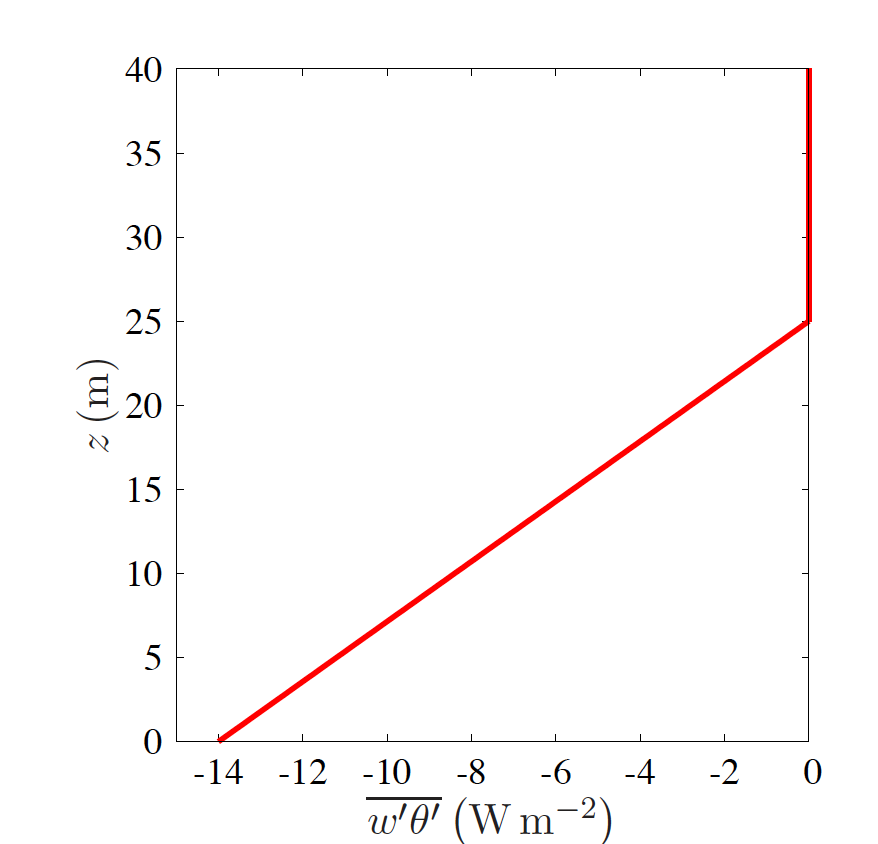
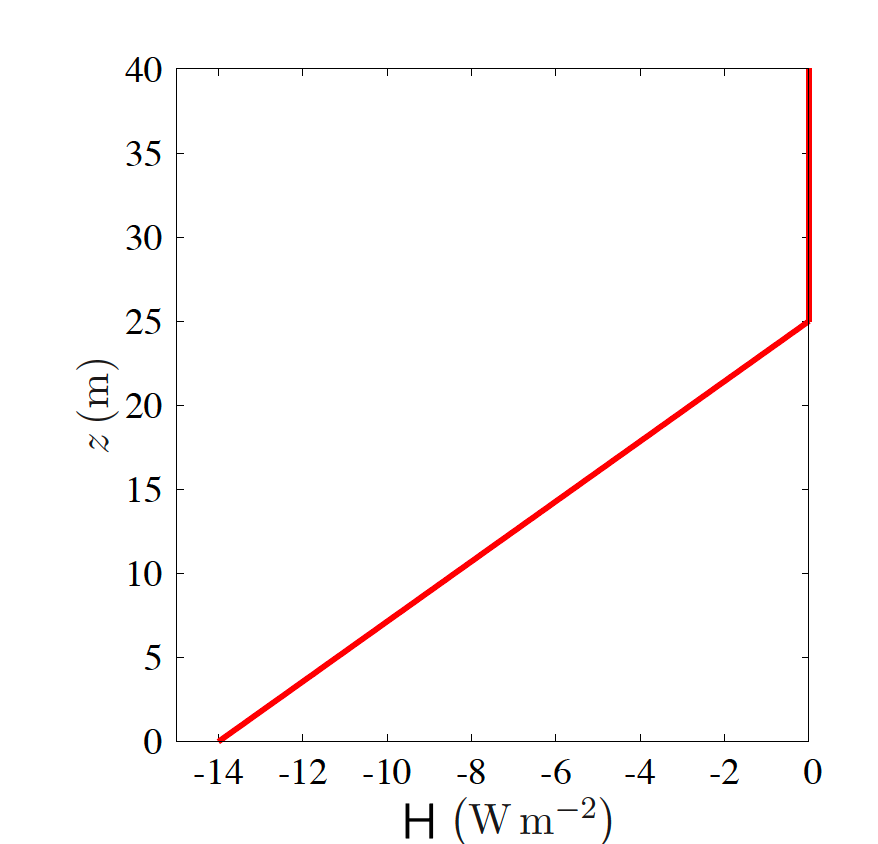
Improve readability and fix units of the exercises of week 5

diff --git a/exercises/week5.md b/exercises/week5.md
@@ -3,6 +3,11 @@ $\def\pafg#1#2{\dfrac{\partial #1}{\partial #2}}$
 $\def\afg#1#2{\dfrac{{\rm d} #1}{{\rm d} #2}}$
 $\def\gemafg#1#2{\pafg{\overline{#1}}{#2}}$
 
+```{hint}
+:class: tip
+Remember that $H\ =\ \rho\ c_p\ \overline{w'\theta'}$. If no values are given, use $\rho\ c_p\ = 1231\ J\ K^{-1}\ m^{-3}$.  
+```
+
 ##
 The following figure shows the raw observation of the wind speed.
 
@@ -218,9 +223,10 @@ and the wind speed. Discuss your criteria and the estimation of the height.
 <details>
   <summary>Answer</summary>
 
-Using the potential temperature gradient, there are 2 criteria.
-1. $\pafg{\theta}{z}=0$: This only occurs at the top of the profile
-2. A small $\pafg{\theta}{z}$: This is valid at $h=1000\rm\,m$ and above.
+Using the potential temperature gradient, there are multiple criteria possible, resulting in different heights.
+1. In the residual layer $\pafg{\theta}{z}=0$: This only occurs at the top of the profile
+2. In the residual layer $\pafg{\theta}{z}$ is small: This is valid at $h=1000\rm\,m$ and above.
+3. Above the residual layer, there is an inversion where $\pafg{\theta}{z}$ is large: this occurs around 750m.
 
 For the wind speed, the location of the low level jet is used. 
 The maximum wind speed in this jet is at a height of 250 m.
@@ -439,12 +445,12 @@ T_{\rm Top} = \theta_{\rm Top} = 293.98\rm\,K
 $$(for:73temp3)
 
 $\rho\,c_p=1231\rm\,\frac{W\,m^{-2}}{K\,m\,s^{-1}}$, 
-$\sigma_{\rm SB}=5.67\times 10^{-8}\rm\,W\,m^{-2}\,K^{-4}$ and 
+$\sigma_{\rm SB}=5.67\cdot 10^{-8}\rm\,W\,m^{-2}\,K^{-4}$ and 
 $\epsilon_{\rm IR} = 0.78$, 
-so $\frac{\epsilon_{\rm IR}\, \sigma_{\rm SB}}{\rho\,c_p} = 3.59\times 10^{-11} \rm K^{-3}\,m\,s^{-1}$.
+so $\frac{\epsilon_{\rm IR}\, \sigma_{\rm SB}}{\rho\,c_p} = 3.59\cdot 10^{-11} \rm K^{-3}\,m\,s^{-1}$.
 
 $$
-\gemafg{\theta}{t} = 2.2\times 10^{-5} \rm\,K\,s^{-1} = 0.079\,K\,hr^{-1}
+\gemafg{\theta}{t} = 2.2\cdot 10^{-5} \rm\,K\,s^{-1} = 0.079\,K\,hr^{-1}
 $$
 
 </details>
@@ -480,7 +486,7 @@ $$
 The constants are equal to exercise b, so
 
 $$
-\gemafg{\theta}{t} = -1.14\times 10^{-3} \rm\,K\,s^{-1} = -4.1\,K\,hr^{-1}
+\gemafg{\theta}{t} = -1.14\cdot 10^{-3} \rm\,K\,s^{-1} = -4.1\,K\,hr^{-1}
 $$
 
 Note that using the rounded temperatures results in wrong answers. This is due to the power of 4 of the temperature.
@@ -504,21 +510,21 @@ In conclusion, the nocturnal temperature profile that is most probable to be obs
 
 
 ##
-The momentum equation for the $\overline{U}$ and $\overline{V}$-component
+The momentum equation for the $\overline{u}$ and $\overline{v}$-component
 during diurnal and nocturnal conditions reads:
 
 $$
-\pafg{\overline{U}}{t}~=~f \overline{V}- \pafg{\overline{w'u'}}{z}
+\pafg{\overline{u}}{t}~=~f \overline{v}- \pafg{\overline{w'u'}}{z}
 $$
 
 $$
-\pafg{\overline{V}}{t}~=~f (\overline{U_g}-\overline{U})- \pafg{\overline{w'v'}}{z}
+\pafg{\overline{v}}{t}~=~f (u_g-\overline{u})- \pafg{\overline{w'v'}}{z}
 $$
 
-where $\overline{U_g}$ is the geostrophic wind in the U direction and f
-is the Coriolis parameter. We assume that $\overline{V_g}$=0.
+where $u_g$ is the geostrophic wind in the u direction and f
+is the Coriolis parameter. We assume that $v_g$=0.
 
-a) Derive expressions for $\overline{U}$ and $\overline{V}$ during day conditions.
+a) Derive expressions for $\overline{u}$ and $\overline{v}$ during day conditions.
 In diurnal conditions, one can assume that the wind is in steady-state.
 
 <details>
@@ -527,20 +533,20 @@ In diurnal conditions, one can assume that the wind is in steady-state.
 Since we are evaluating (diurnal) stationary conditions, 
 
 $$
-0&=f\,\overline{V}-\gemafg{w'u'}{z}\\
-0&=f\,\left(\overline{U_g}-\overline{U}\right)-\gemafg{w'v'}{z}
+0&=f\,\overline{v}-\gemafg{w'u'}{z}\\
+0&=f\,\left(u_g-\overline{u}\right)-\gemafg{w'v'}{z}
 $$
 
 Therefore, 
 
 $$
-\overline{U} &= \overline{U_g}-\frac{1}{f}\gemafg{w'v'}{z} \\
-\overline{V} &= \frac{1}{f}\gemafg{u'w'}{z}
+\overline{u} &= u_g-\frac{1}{f}\gemafg{w'v'}{z} \\
+\overline{v} &= \frac{1}{f}\gemafg{u'w'}{z}
 $$
 
 </details>
 
-b) Calculate the $\overline{U}$ and $\overline{V}$-components during the night. To this end, take the following steps: 
+b) Calculate the $\overline{u}$ and $\overline{v}$-components during the night. To this end, take the following steps: 
 1. Under nocturnal conditions, the friction suddenly disappears above the surface
    layer. Discuss the validity of this assumption. Use this assumption to simplify the momentum equations.
 
@@ -555,41 +561,41 @@ b) Calculate the $\overline{U}$ and $\overline{V}$-components during the night. 
     Therefore, it can be neglected with respect to the Coriolis and horizontal pressure gradient terms.
     
     $$
-    \gemafg{U}{t} =f\,\overline{V}
+    \gemafg{u}{t} =f\,\overline{v}
     $$(for:74b1)
     
     $$
-    \gemafg{V}{t} =f\,\left(\overline{U_g}-\overline{U}\right)
+    \gemafg{v}{t} =f\,\left(u_g-\overline{u}\right)
     $$(for:74b2)
     
     </details>
-2. Derive a second-order differential equation for the $\overline{U}-\overline{U_g}$ component
+2. Derive a second-order differential equation for the $\overline{u}-u_g$ component
    
    <details>
     <summary>Answer</summary>
    
-   Considering that $\overline{U_g}$ is a constant, 
+   Considering that $u_g$ is a constant, 
 
     $$
-    \gemafg{U}{t} &= \gemafg{U}{t}-\gemafg{U_g}{t}\\
-    &= \pafg{\left(\overline{U}-\overline{U_g}\right)}{t}
+    \gemafg{u}{t} &= \gemafg{u}{t}-\gemafg{u_g}{t}\\
+    &= \pafg{\left(\overline{u}-u_g\right)}{t}
     $$
     
     Combined with Equations {eq}`for:74b1` and {eq}`for:74b2`, this results in
     
     $$
-    {\pafg{^2\left(\overline{U}-\overline{U_g}\right)}{t^2}} &= \pafg{}{t}\pafg{\overline{U}}{t} \\
-    &= \pafg{}{t}\left(f\,\overline{V}\right)\\
-    &= f\,\gemafg{V}{t}\\
-    &= f^2\,\left(\overline{U_g}-\overline{U}\right)\\
-    {\pafg{^2\left(\overline{U}-\overline{U_g}\right)}{t^2}} &= - f^2\,\left(\overline{U}-\overline{U_g}\right)
+    {\pafg{^2\left(\overline{u}-u_g\right)}{t^2}} &= \pafg{}{t}\pafg{\overline{u}}{t} \\
+    &= \pafg{}{t}\left(f\,\overline{v}\right)\\
+    &= f\,\gemafg{v}{t}\\
+    &= f^2\,\left(u_g-\overline{u}\right)\\
+    {\pafg{^2\left(\overline{u}-u_g\right)}{t^2}} &= - f^2\,\left(\overline{u}-u_g\right)
     $$
 
     </details>
 
-3. The expression found for $\overline{U}-\overline{U_g}$, corresponds to a harmonic oscillator equation, $\pafg{^2 x}{t^2}=-k\,x$.
+3. The expression found for $\overline{u}-u_g$, corresponds to a harmonic oscillator equation, $\pafg{^2 x}{t^2}=-k\,x$.
 
-   In this case $x$ is equal to $\left(\overline{U}-\overline{U_g}\right)$ and $k=f^2$.
+   In this case $x$ is equal to $\left(\overline{u}-u_g\right)$ and $k=f^2$.
 
     A general solution is $x=A\sin\left(\sqrt{k}t\right)+B\cos\left(\sqrt{k}t\right)$. 
 
@@ -598,7 +604,7 @@ b) Calculate the $\overline{U}$ and $\overline{V}$-components during the night. 
    We can prove that the solution
 
     $$
-    \overline{U}-\overline{U_g}=A sin(ft) + B cos (ft)
+    \overline{u}-u_g=A sin(ft) + B cos (ft)
     $$
 
     is a correct solution:
@@ -613,67 +619,70 @@ b) Calculate the $\overline{U}$ and $\overline{V}$-components during the night. 
     $$
     ```
    
-    Now use the general solution for the harmonic oscillator and the following initial conditions to find an expression for $\overline{U}$ and $\overline{V}$:
+    Now use the general solution for the harmonic oscillator and the following initial conditions to find an expression for $\overline{u}$ and $\overline{v}$:
    
-   $$
-   \overline{U}(t=0)~=~\overline{U_d}=\overline{U_g}-F_{v}(t=0)
-   $$
-
     $$
-    \overline{V}(t=0)~=~\overline{V_d}=F_{u}(t=0)
+    \overline{u}(t=0) = u_g-F_{v}(t=0)
     $$
 
-   where $\pafg{\overline{w'u'}}{z}=fF_{u}(t=0)$ and $\pafg{\overline{w'v'}}{z}=fF_{v}(t=0)$.
+    $$
+    \overline{v}(t=0) = F_{u}(t=0)
+    $$
+
+    where $F_{u}(t=0) = \frac{1}{f} \pafg{\overline{w'u'}}{z}$ and $F_{v}(t=0) = \frac{1}{f}\pafg{\overline{w'v'}}{z}$.
+
+    Note that these initial conditions are the daytime steady-state conditions that were derived in question a. 
 
     <details>
     <summary>Answer</summary>
     
-    $\overline{U}-\overline{U_g} = A\sin\left(ft\right)+B\cos\left(ft\right)$, so 
+    $\overline{u}-u_g = A\sin\left(ft\right)+B\cos\left(ft\right)$, so 
     
     $$
-    \overline{U}(0) &= \overline{U_g} + B\\ &= \overline{U_g} - F_v(0)\\
+    \overline{u}(0) &= u_g + B\\ &= u_g - F_v(0)\\
     B &= -F_v(0)\\
-    \overline{U} &= \overline{U_g} + A\sin\left(ft\right)- F_v(0) \, \cos\left(ft\right)
+    \overline{u} &= u_g + A\sin\left(ft\right)- F_v(0) \, \cos\left(ft\right)
     $$
     
-    Since $\overline{V} = \frac{1}{f}\gemafg{U}{t}$, 
+    Since $\overline{v} = \frac{1}{f}\gemafg{u}{t}$, 
     
     $$
-    \overline{V} &= \frac{1}{f}\left(A f\cos\left(ft\right) + F_v(0) f \sin\left(ft\right) \right) \\
+    \overline{v} &= \frac{1}{f}\left(A f\cos\left(ft\right) + F_v(0) f \sin\left(ft\right) \right) \\
      &= A \cos\left(ft\right) + F_v(0) \sin\left(ft\right)
     $$
     
     Using, the second boundary condition, 
     
     $$
-    \overline{V}(0) &= A \\&= F_u(0)\\
+    \overline{v}(0) &= A \\&= F_u(0)\\
     A &= F_u(0)
     $$
     
-    All in all, the equations for $\overline{U}$ and $\overline{V}$ are
+    All in all, the equations for $\overline{u}$ and $\overline{v}$ are
     
     $$
-    \overline{U} &= \overline{U_g} + F_u(0) \sin\left(ft\right) - F_v(0) \cos\left(ft\right)\\
-    \overline{V} &= F_v(0) \sin\left(ft\right) + F_u(0) \cos\left(ft\right) 
+    \overline{u} &= u_g + F_u(0) \sin\left(ft\right) - F_v(0) \cos\left(ft\right)\\
+    \overline{v} &= F_v(0) \sin\left(ft\right) + F_u(0) \cos\left(ft\right) 
     $$
     
     This can be written as 
     
     $$
-    \overline{U} &= \overline{U_g} + \frac{1}{f} \gemafg{w'u'}{z} \sin\left(ft\right) - \frac{1}{f} \gemafg{w'v'}{z} \cos\left(ft\right)\\
-    \overline{V} &= \frac{1}{f} \gemafg{w'v'}{z} \sin\left(ft\right) + \frac{1}{f} \gemafg{w'u'}{z} \cos\left(ft\right) 
+    \overline{u} &= u_g + \frac{1}{f} \gemafg{w'u'}{z} \sin\left(ft\right) - \frac{1}{f} \gemafg{w'v'}{z} \cos\left(ft\right)\\
+    \overline{v} &= \frac{1}{f} \gemafg{w'v'}{z} \sin\left(ft\right) + \frac{1}{f} \gemafg{w'u'}{z} \cos\left(ft\right) 
     $$
     
     </details>
 
-c) Plot the $\overline{U}$ and $\overline{V}$-components for a full period
-T=2$\pi$/f, using the following values: f=10$^{-4}$s$^{-1}$, F$_{u}(t=0)$=F$_{v}(t=0)$=3ms$^{-1}$ and
-$\overline{U_g}$=10 ms$^{-1}$ and $\overline{V_g}$=0.
+c) Plot the $\overline{u}$ and $\overline{v}$-components for a full period
+T=2$\pi$/f, using the following values: 
+
+f = 10$^{-4}$ s$^{-1}$, F$_{u}(t=0)$ = F$_{v}(t=0)$ = 3 m s$^{-1}$, $u_g$ = 10 m s$^{-1}$, and $v_g$ = 0 m s$^{-1}$.
 
 <details>
   <summary>Answer</summary>
 
-The wind velocities, $\overline{U}$ and $\overline{V}$ are plotted in {numref}`fig:ans_74`.
+The wind velocities, $\overline{u}$ and $\overline{v}$ are plotted in {numref}`fig:ans_74`.
 
 ```{figure} figures/exercise7_4.png
 :name: fig:ans_74
@@ -682,7 +691,7 @@ Evolution of wind velocities.
 
 </details>
 
-d) Derive an expresion for $\left(\overline{U}-\overline{U_g}\right)^2 + \overline{V}^2$. 
+d) Derive an expresion for $\left(\overline{u}-u_g\right)^2 + \overline{v}^2$. 
 Use this expression to explain how the wind changes over time. 
 
 <details>
@@ -691,26 +700,26 @@ Use this expression to explain how the wind changes over time.
 Realize that 
 
 $$
-\overline{U}-\overline{U_g} &= F_u(0) \sin\left(ft\right) - F_v(0) \cos\left(ft\right)\\ 
-\overline{V} &= F_v(0) \sin\left(ft\right) + F_u(0) \cos\left(ft\right)
+\overline{u}-u_g &= F_u(0) \sin\left(ft\right) - F_v(0) \cos\left(ft\right)\\ 
+\overline{v} &= F_v(0) \sin\left(ft\right) + F_u(0) \cos\left(ft\right)
 $$
 
 Therefore, 
 
 $$
-\left(\overline{U}-\overline{U_g}\right)^2 &= F_u^2(0) \sin^2\left(ft\right) + F_v^2(0) \cos^2\left(ft\right) - 2 F_u(0) F_v(0) \cos\left(ft\right) \sin\left(ft\right) \\
-\overline{V}^2 &= F_u^2(0) \cos^2\left(ft\right) + F_v^2(0) \sin^2\left(ft\right) + 2 F_u(0) F_v(0) \cos\left(ft\right) \sin\left(ft\right) 
+\left(\overline{u}-u_g\right)^2 &= F_u^2(0) \sin^2\left(ft\right) + F_v^2(0) \cos^2\left(ft\right) - 2 F_u(0) F_v(0) \cos\left(ft\right) \sin\left(ft\right) \\
+\overline{v}^2 &= F_u^2(0) \cos^2\left(ft\right) + F_v^2(0) \sin^2\left(ft\right) + 2 F_u(0) F_v(0) \cos\left(ft\right) \sin\left(ft\right) 
 $$
 
 Combining these 2 equations results in 
 
 $$
-\left(\overline{U}-\overline{U_g}\right)^2 + \overline{V}^2 &= F_u^2(0) \left(\cos^2\left(ft\right)+\sin^2\left(ft\right)\right) + F_v^2(0) \left(\cos^2\left(ft\right)+\sin^2\left(ft\right)\right) \\
+\left(\overline{u}-u_g\right)^2 + \overline{v}^2 &= F_u^2(0) \left(\cos^2\left(ft\right)+\sin^2\left(ft\right)\right) + F_v^2(0) \left(\cos^2\left(ft\right)+\sin^2\left(ft\right)\right) \\
  &= F_u^2(0) + F_v^2(0)
 $$
 
 Since the right-hand side is a constant, 
-this equation states that $\left(\overline{U},\overline{V}\right)$ progresses in time as a circular movement around $\left(\overline{U_g},0\right)$ 
+this equation states that $\left(\overline{u},\overline{v}\right)$ progresses in time as a circular movement around $\left(u_g,0\right)$ 
 at a distance of $\sqrt{F_u^2(0) + F_v^2(0)} = 3\sqrt{2}\rm\,m\,s^{-1}$
 
 This can also be seen from {numref}`fig:ans_74`.
@@ -730,7 +739,7 @@ Stefan-Boltzmann law:
 
 $$
 L&=\epsilon_{IR}\sigma_{SB} T^4 \\
-\sigma_{SB}&=5.67~10^{-8}~\frac{W}{m^2K^4}
+\sigma_{SB}&=5.67~10^{-8}\ W\ m^{-1}\ K^{-4}
 $$
 
 The following values in the three-layer model of the stable
@@ -742,7 +751,7 @@ Finally, at the top of the SBL $T_t=298~K$ and $\epsilon_t=0.78$.
 
 The boundary layer height is equal to 25 m.
 Additional data to calculate the divergence of
-the net longwave radiation are: $\rho=1.2261 Kg/m^3$, $c_p=1004 J/KgK$.
+the net longwave radiation are: $\rho\ =\ 1.2261\ Kg\ m^{-3}$, $c_p\ =\ 1004\ J\ Kg^{-1}\ K^{-1}$.
 
 <details>
   <summary>Answer</summary>
@@ -775,8 +784,8 @@ Therefore, the variation of the potential temperature per hour is equal to
 
 $$
 \gemafg{\theta}{t} &= -\frac{1}{\rho\,c_p}\pafg{Q^*}{z}\\
-                   &= -\frac{ 0.697 \rm\,W\,m^{-3}}{1.2261 \cdot 1004 \rm\,W\,m^{-3}\,K^{-1}\,s}\\
-                   &= -0.566\times 10^{-3}\rm\,K\,s^{-1} \\
+                   &= -\frac{ 0.697 \rm\,W\,m^{-3}}{1.2261 \cdot 1004 \rm\ J\ K^{-1}\ m^{-3}}\\
+                   &= -0.566 \cdot 10^{-3}\rm\,K\,s^{-1} \\
 &= -2.03 \rm\,K\,hr^{-1}
 $$
 
@@ -785,10 +794,12 @@ $$
 c) The sensible heat flux has the following vertical profile
 
 $$
-\overline{w'\theta'}(z)~=~\overline{w'\theta'}_o~(1-z/h)~~~~\overline{w'\theta'}_o= -14~W/m^2
+\overline{w'\theta'}(z)~=~\overline{w'\theta'}_o~(1-z/h)
 $$
 
-where $\overline{w'\theta'}_o$ is the sensible heat flux at
+$ \overline{w'\theta'}_o= -0.0114~ K\ m\ s^{-1}$ (or H = -14 $W\ m^{-2}$)
+
+where $\overline{w'\theta'}_o$ is the potential temperature flux at
 the surface and $h=25~m$ is the depth of the SBL.
 
 Plot this profile. Discuss and quantify the role of the turbulent flux under these conditions.
@@ -810,14 +821,14 @@ The divergence of the vertical heat flux is equal to
 $$
 \gemafg{w'\theta'}{z} &= \frac{-\overline{w'\theta'}(0)}{h}\\
 &= \frac{\frac{14}{1231}\rm\,K\,m\,s^{-1}}{25\rm\,m}\\
-&= 0.455\times 10^{-3}\rm\,K\,s^{-1}
+&= 0.455\cdot 10^{-3}\rm\,K\,s^{-1}
 $$
 
 This corresponds to a cooling term in the conservation equation of the boundary layer of 1.64 K hr$^{-1}$.
 
 </details>
 
-d) By using the values found in a) and taking now into account the turbulent divergence
+d) By using the value found in b) and taking now into account the turbulent divergence
 term, calculate the temperature change per hour.
 
 <details>
@@ -842,11 +853,11 @@ reach a steady-state.
 The horizontal advection has to balance the cooling effects of both the vertical heat flux gradient and the radiation. Therefore, 
 
 $$
-\overline{U}\gemafg{\theta}{x} &= - 0.455\times 10^{-3}\rm\,K\,s^{-1} - 0.566\times 10^{-3}\rm\,K\,s^{-1} \\
-&= - 1.021\times 10^{-3}\rm\,K\,s^{-1}
+\overline{U}\gemafg{\theta}{x} &= - 0.455\cdot 10^{-3}\rm\,K\,s^{-1} - 0.566\cdot 10^{-3}\rm\,K\,s^{-1} \\
+&= - 1.021\cdot 10^{-3}\rm\,K\,s^{-1}
 $$
 
-Since $\overline{U}=10\rm\,m\,s^{-1}$, $\gemafg{\theta}{x} \approx -1\times 10^{-4}\rm\,K\,m^{-1}$. 
+Since $\overline{U}=10\rm\,m\,s^{-1}$, $\gemafg{\theta}{x} \approx -1\cdot 10^{-4}\rm\,K\,m^{-1}$. 
 This results in $\gemafg{\theta}{x}=-0.1\rm\,K\,km^{-1}$
 
 Since the value is negative, relatively warm air is transported in the positive $x$ direction and, consequently, advection is a source of heating.
